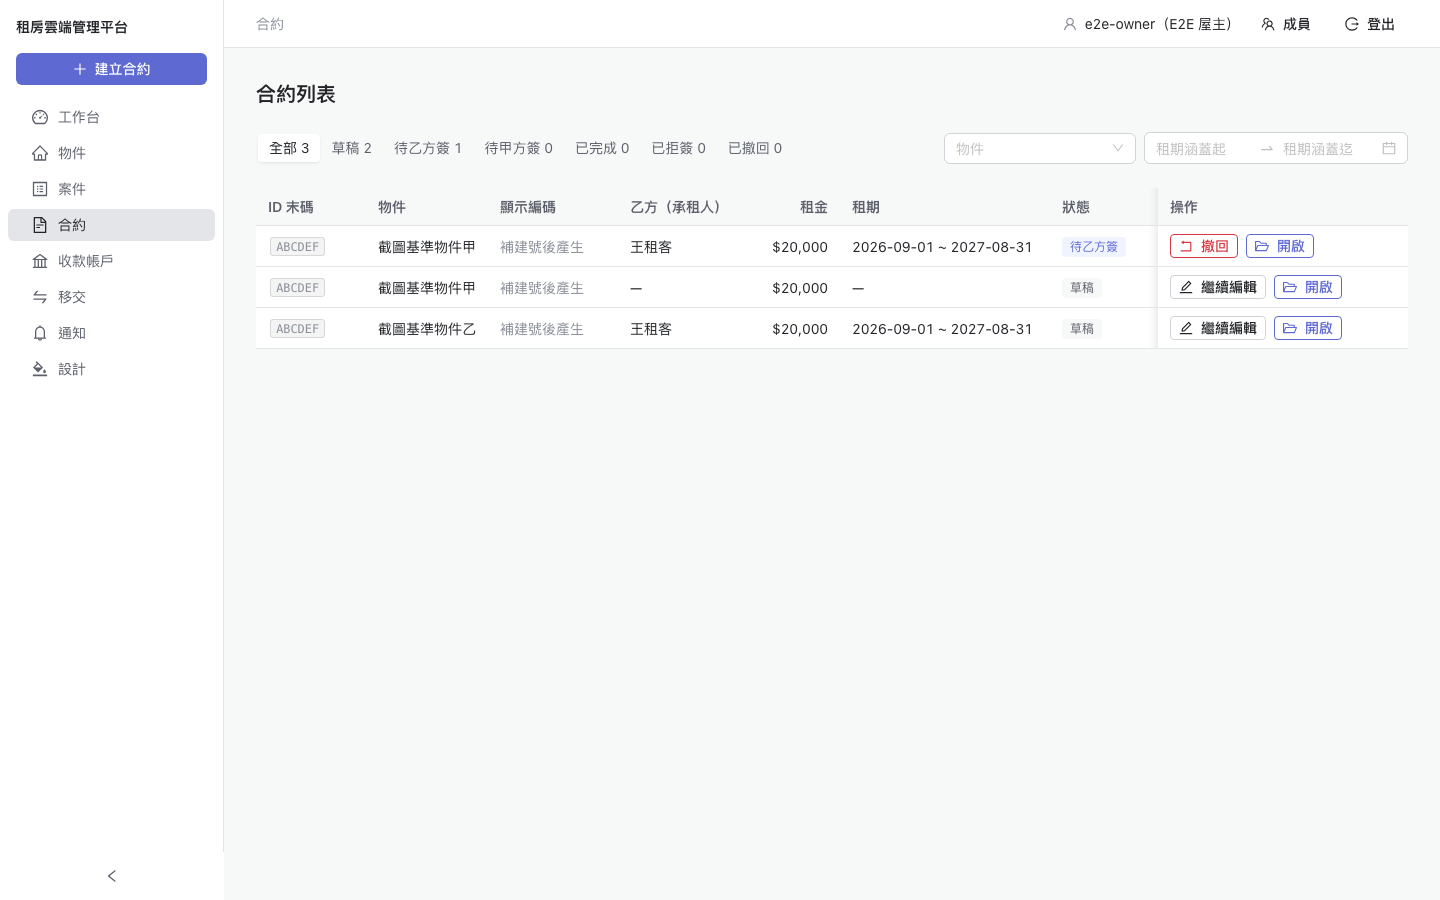
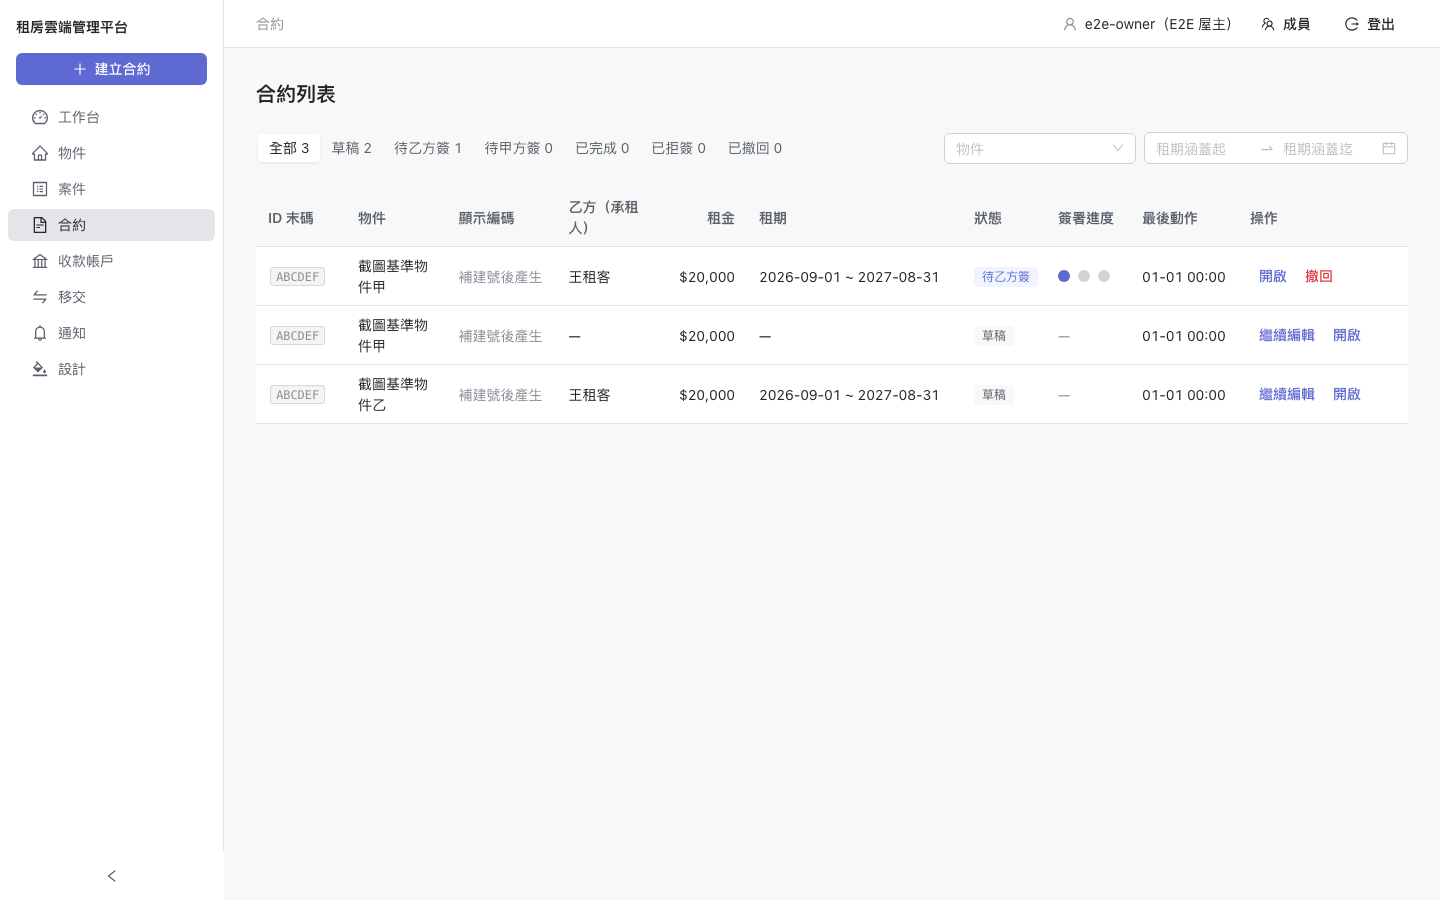
合約列表：調欄寬讓 1440 寬全部欄位可見，重拍截圖與基準，用法文件補操作欄規則（MIL-174）

diff --git a/src/components/ContractList.tsx b/src/components/ContractList.tsx
@@ -231,16 +231,16 @@ function ContractListInner({ contracts, progress, displayCodes }: ContractListPr
           },
           { title: partyB.title, render: (_, r) => partyB.cell(r) },
           { title: '租金', width: 90, align: 'right', render: (_, r) => listRentLabel(r) },
-          { title: '租期', width: 190, render: (_, r) => listPeriodLabel(r) },
-          { title: '狀態', width: 90, render: (_, r) => <StatusTag kind="contract" value={r.status} /> },
+          { title: '租期', width: 215, render: (_, r) => listPeriodLabel(r) },
+          { title: '狀態', width: 84, render: (_, r) => <StatusTag kind="contract" value={r.status} /> },
           {
             title: '簽署進度',
-            width: 90,
+            width: 84,
             render: (_, r) => <SigningProgress contract={r} progress={progress[String(r.id)] ?? null} />,
           },
-          { title: '最後動作', width: 110, render: (_, r) => dayjs(lastActionAt(r)).format('MM-DD HH:mm') },
+          { title: '最後動作', width: 108, render: (_, r) => dayjs(lastActionAt(r)).format('MM-DD HH:mm') },
           // 操作欄固定在最右，表格橫向捲動時仍看得到（規格 39）
-          { title: '操作', width: 200, fixed: 'right', render: (_, r) => rowActions(r) },
+          { title: '操作', width: 170, fixed: 'right', render: (_, r) => rowActions(r) },
         ],
       }}
     />

diff --git a/docs/ui/composite-components.md b/docs/ui/composite-components.md
@@ -150,6 +150,7 @@ export default function Loading() {
 版型固定的行為：
 
 - 表格 `size="middle"`。
+- 操作欄放最右，用文字連結（`Button type="link" size="small"`），不用有邊框的按鈕群。1440 寬、側欄展開時，欄位不必橫向捲動；窄於表格最小寬度時，操作欄固定在右側。
 - 分頁每頁 `LIST_PAGE_SIZE` 筆（20），不顯示筆數切換，只有一頁時隱藏，並顯示「共 N 筆」。
 - 表格沒有資料時：`filter.active` 為 `true` 顯示「沒有符合篩選條件的資料」加「清除篩選」，否則顯示 `empty`。
 
